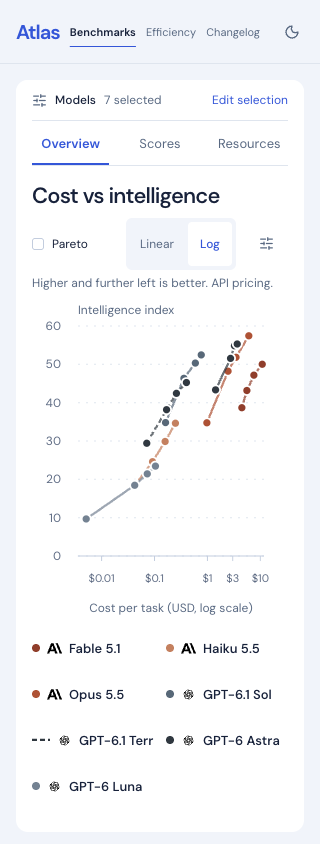
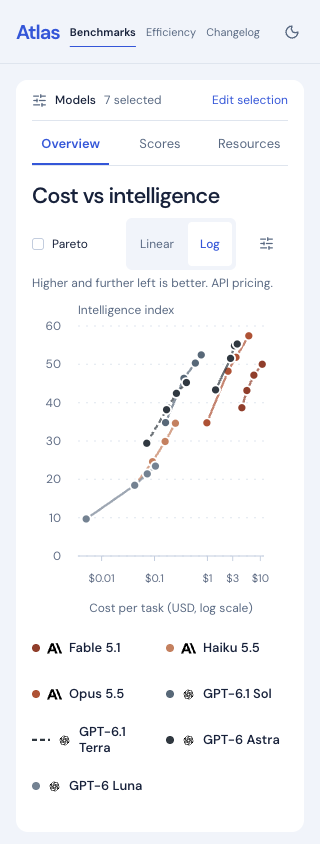
fix: wrap narrow phone legend names

diff --git a/src/Charts.tsx b/src/Charts.tsx
@@ -229,7 +229,7 @@ export const Chart = memo(function Chart({
                     {model.codingAgent.name}, {model.effortLabel}
                   </span>
                 </span>
-              ) : <span>{shortName(model)}{view.metric === 'cost' && model.taskPricing?.basis === 'api-fallback' && <span className="text-[10px] font-normal text-fg-2"> · API</span>}</span>}
+              ) : <span className="min-w-0 whitespace-normal leading-tight">{shortName(model)}{view.metric === 'cost' && model.taskPricing?.basis === 'api-fallback' && <span className="text-[10px] font-normal text-fg-2"> · API</span>}</span>}
             </button>;
           })}
         </div>
